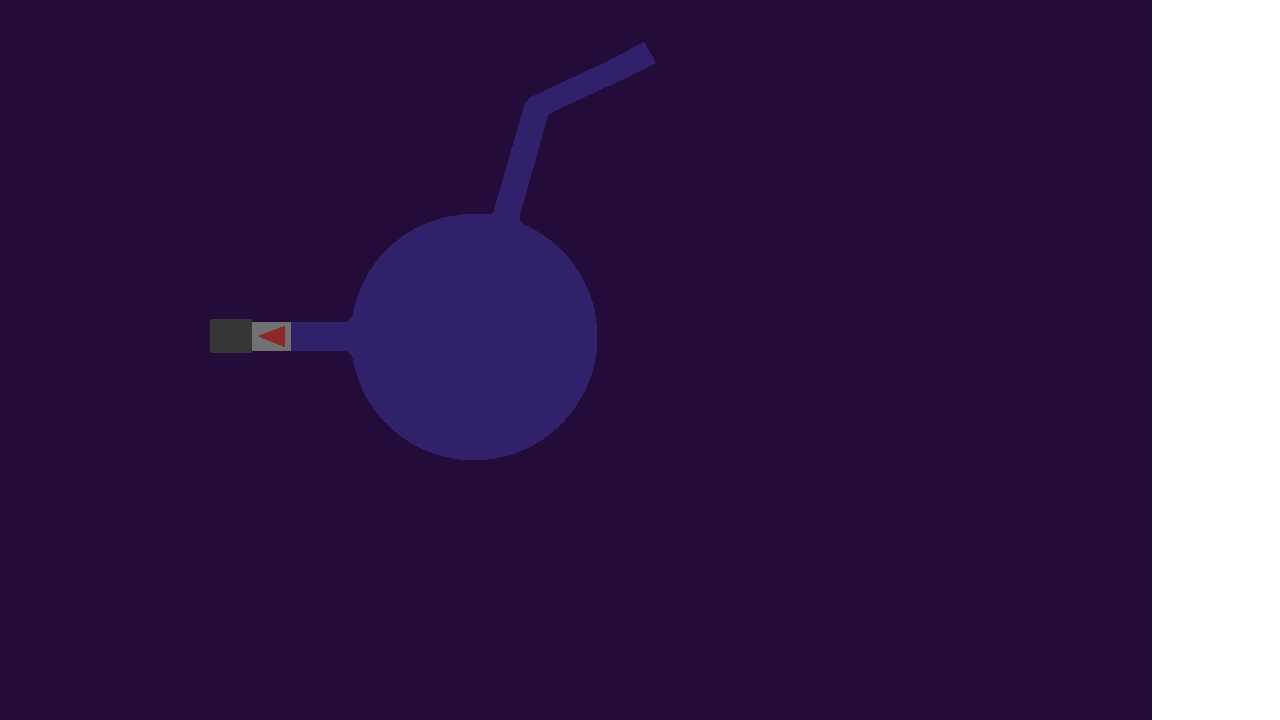
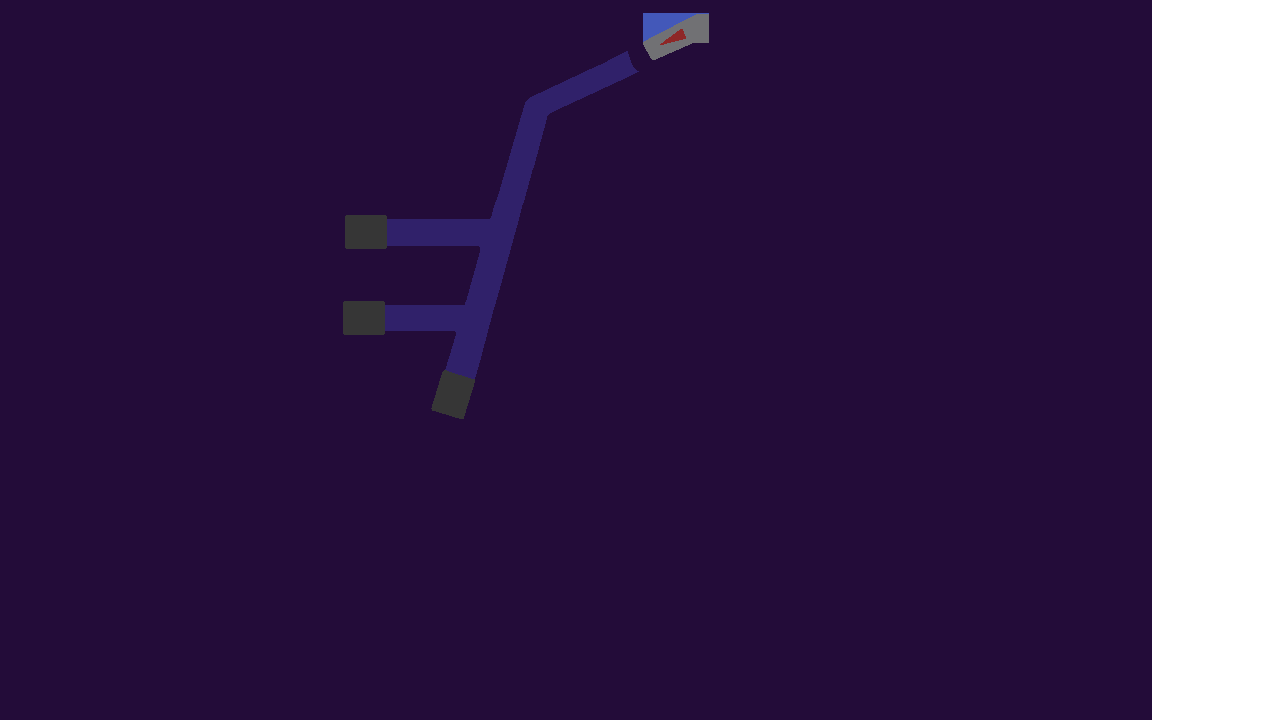
redo ball lock shapes and underlayer

Changed region(s): [[0.1562, 0.275, 0.4688, 0.6417], [0.4688, 0.0, 0.5625, 0.0917], [0.3438, 0.275, 0.375, 0.3056]]

diff --git a/games/pinball/source/layer.h b/games/pinball/source/layer.h
@@ -22,7 +22,7 @@ class Layer {
         int m_layerID;
 
         // Underlayer
-        vector<float> m_underOuter = {688.6, 12.6, 681.8, 16.1, 649.6, 32.9, 617.5, 49.7, 607.5, 54.8, 597.5, 59.8, 564.8, 73.8, 532.1, 87.9, 525.3, 91.4, 518.4, 94.8, 517.1, 96.3, 515.9, 97.8, 512.4, 109.1, 509.0, 120.3, 509.0, 121.9, 509.0, 123.6, 497.6, 165.3, 486.1, 207.0, 485.5, 208.0, 484.9, 209.0, 474.8, 209.0, 464.8, 209.0, 454.1, 210.6, 443.5, 212.1, 433.0, 215.6, 422.6, 219.1, 413.8, 223.7, 405.1, 228.3, 396.8, 234.5, 388.5, 240.8, 380.9, 248.7, 373.3, 256.7, 368.3, 264.1, 363.3, 271.5, 359.3, 279.5, 355.3, 287.5, 354.5, 290.0, 353.8, 292.5, 350.8, 298.5, 347.8, 304.5, 345.7, 306.9, 343.5, 309.2, 339.3, 312.1, 335.2, 315.0, 270.8, 315.2, 206.5, 315.5, 206.5, 336.5, 206.5, 357.5, 273.7, 358.0, 340.8, 358.5, 343.0, 361.3, 345.2, 364.0, 348.6, 370.7, 352.1, 377.4, 355.0, 384.9, 358.0, 392.5, 362.4, 400.2, 366.8, 408.0, 371.9, 414.8, 376.9, 421.7, 385.3, 429.7, 393.6, 437.7, 401.1, 442.7, 408.5, 447.7, 415.5, 451.2, 422.5, 454.8, 431.2, 457.8, 439.9, 460.9, 450.5, 463.0, 461.1, 465.0, 473.8, 465.0, 486.5, 465.0, 495.5, 463.4, 504.5, 461.9, 514.7, 458.5, 524.8, 455.1, 530.9, 452.0, 537.0, 449.0, 542.4, 445.5, 547.8, 442.1, 555.3, 436.0, 562.9, 430.0, 567.6, 424.7, 572.3, 419.5, 578.2, 411.6, 584.0, 403.6, 588.9, 393.6, 593.9, 383.5, 596.5, 375.5, 599.1, 367.6, 600.5, 359.2, 602.0, 350.7, 602.0, 336.9, 602.0, 323.1, 600.1, 313.3, 598.2, 303.5, 596.0, 297.0, 593.8, 290.5, 589.9, 282.1, 586.0, 273.7, 580.3, 265.1, 574.5, 256.5, 565.0, 246.9, 555.5, 237.3, 544.7, 230.3, 534.0, 223.2, 529.5, 221.3, 525.0, 219.5, 531.6, 194.4, 538.2, 170.5, 545.1, 145.6, 551.9, 120.6, 554.2, 118.3, 556.5, 116.1, 585.8, 102.5, 615.0, 89.0, 616.0, 89.0, 617.0, 89.0, 656.0, 69.5, 695.0, 50.0, 707.5, 50.0, 720.0, 50.0, 720.0, 47.5, 720.0, 45.0, 706.0, 45.0, 692.0, 45.0, 660.7, 60.6, 629.5, 76.3, 590.1, 94.6, 550.6, 113.0, 549.1, 114.5, 547.6, 116.0, 540.4, 142.2, 533.2, 168.5, 528.1, 186.5, 522.9, 204.5, 521.5, 209.5, 520.0, 214.5, 520.0, 217.6, 520.0, 220.7, 522.3, 222.7, 524.5, 224.7, 531.0, 228.0, 537.5, 231.3, 545.0, 236.4, 552.5, 241.5, 561.6, 250.5, 570.7, 259.6, 576.7, 268.8, 582.8, 278.1, 587.0, 287.5, 591.1, 297.0, 593.7, 306.8, 596.4, 316.5, 596.4, 337.0, 596.4, 357.5, 593.8, 367.3, 591.1, 377.1, 587.2, 385.9, 583.3, 394.7, 577.8, 403.1, 572.4, 411.5, 566.1, 418.8, 559.8, 426.0, 551.7, 432.5, 543.5, 439.1, 536.0, 443.5, 528.4, 447.9, 521.2, 450.9, 514.0, 453.9, 503.8, 456.5, 493.5, 459.2, 477.5, 459.7, 461.5, 460.2, 451.5, 458.1, 441.5, 456.1, 435.0, 453.9, 428.5, 451.8, 420.4, 448.1, 412.3, 444.3, 404.5, 439.0, 396.7, 433.7, 388.4, 425.7, 380.2, 417.8, 374.7, 410.1, 369.2, 402.5, 365.6, 395.9, 361.9, 389.2, 358.9, 380.9, 355.9, 372.6, 354.0, 364.6, 352.1, 356.7, 349.3, 353.8, 346.6, 351.0, 279.8, 351.0, 213.0, 351.0, 213.0, 336.5, 213.0, 322.0, 279.8, 322.0, 346.6, 322.0, 349.7, 318.7, 352.8, 315.5, 353.5, 311.0, 354.2, 306.5, 357.1, 297.8, 359.9, 289.2, 363.6, 281.8, 367.3, 274.5, 372.2, 267.2, 377.2, 259.8, 384.3, 252.3, 391.5, 244.8, 398.5, 239.4, 405.6, 234.0, 413.5, 229.6, 421.3, 225.1, 429.9, 221.9, 438.5, 218.8, 447.5, 216.8, 456.5, 214.8, 474.4, 214.2, 492.3, 213.5, 493.1, 212.0, 493.9, 210.5, 509.5, 156.5, 525.1, 102.5, 527.8, 99.8, 530.5, 97.1, 564.8, 81.1, 599.1, 65.0, 641.2, 43.4, 682.5, 21.7, 691.4, 17.4, 700.4, 13.0, 710.2, 13.0, 720.0, 13.0, 720.0, 11.0, 720.0, 9.0, 707.8, 9.0, 695.5, 9.1, 688.6, 12.6};
+        vector<float> m_underOuter = {688.6, 12.6, 681.8, 16.1, 649.6, 32.9, 617.5, 49.7, 607.5, 54.8, 597.5, 59.8, 564.8, 73.8, 532.1, 87.9, 525.3, 91.4, 518.4, 94.8, 517.1, 96.3, 515.9, 97.8, 512.4, 109.1, 509.0, 120.3, 509.0, 121.9, 509.0, 123.6, 499.7, 157.6, 490.3, 191.5, 486.7, 199.3, 483.0, 207.0, 481.2, 210.3, 479.4, 212.0, 408.9, 212.2, 338.5, 212.5, 338.5, 232.5, 338.5, 252.5, 404.8, 252.8, 471.0, 253.0, 464.8, 276.7, 458.6, 299.0, 398.1, 299.2, 337.5, 299.5, 337.2, 316.9, 337.0, 334.2, 338.1, 335.6, 339.2, 337.0, 393.1, 337.0, 447.0, 337.0, 447.0, 338.2, 447.0, 339.5, 440.6, 360.0, 434.1, 380.5, 428.0, 397.0, 421.9, 413.5, 422.6, 416.3, 423.2, 419.1, 425.3, 420.4, 427.5, 421.7, 446.3, 426.5, 465.1, 431.3, 466.5, 429.9, 468.0, 428.5, 473.5, 409.6, 478.9, 390.8, 480.0, 389.5, 481.0, 388.2, 485.4, 371.9, 489.8, 355.5, 496.4, 332.5, 503.0, 309.5, 503.0, 308.0, 503.0, 306.5, 515.0, 263.0, 526.9, 219.5, 527.9, 211.5, 528.9, 203.5, 533.6, 187.0, 538.2, 170.5, 545.1, 145.6, 551.9, 120.6, 554.2, 118.3, 556.5, 116.1, 585.8, 102.5, 615.0, 89.0, 616.0, 89.0, 617.0, 89.0, 656.0, 69.5, 695.0, 50.0, 707.5, 50.0, 720.0, 50.0, 720.0, 47.5, 720.0, 45.0, 706.0, 45.0, 692.0, 45.0, 660.7, 60.6, 629.5, 76.3, 590.1, 94.6, 550.6, 113.0, 549.1, 114.5, 547.6, 116.0, 540.4, 142.2, 533.2, 168.5, 528.1, 186.5, 522.9, 204.5, 519.6, 217.0, 516.2, 229.5, 508.0, 259.0, 499.9, 288.5, 496.5, 300.0, 493.2, 311.5, 485.6, 340.0, 478.1, 368.5, 472.1, 388.5, 466.2, 408.5, 464.0, 415.7, 461.9, 423.0, 446.6, 419.0, 431.8, 415.1, 436.1, 399.0, 441.0, 383.5, 448.6, 358.7, 456.2, 333.9, 455.6, 332.4, 455.1, 331.0, 399.5, 331.0, 344.0, 331.0, 344.0, 318.0, 344.0, 305.0, 404.4, 305.0, 464.7, 305.0, 466.8, 298.2, 468.9, 291.5, 474.5, 271.2, 480.1, 251.0, 479.8, 248.7, 479.5, 246.5, 412.3, 246.2, 345.0, 246.0, 345.0, 232.5, 345.0, 219.0, 417.5, 219.0, 490.0, 219.0, 490.9, 216.7, 491.8, 214.5, 495.8, 202.0, 499.9, 189.5, 512.5, 146.0, 525.1, 102.5, 527.8, 99.8, 530.5, 97.1, 564.8, 81.1, 599.1, 65.0, 641.2, 43.4, 682.5, 21.7, 691.4, 17.4, 700.4, 13.0, 710.2, 13.0, 720.0, 13.0, 720.0, 11.0, 720.0, 9.0, 707.8, 9.0, 695.5, 9.1, 688.6, 12.6};
         /*
         vector<float> m_under1 = {531.4, 274.8, 526.3, 281.6, 527.7, 283.6, 529.2, 285.5, 532.5, 292.5, 535.8, 299.5, 537.4, 307.2, 539.0, 314.9, 539.0, 320.5, 539.0, 326.1, 537.4, 333.8, 535.8, 341.5, 532.5, 348.5, 529.2, 355.5, 527.7, 357.4, 526.3, 359.4, 531.4, 366.2, 536.4, 373.0, 538.1, 373.0, 539.7, 373.0, 542.2, 369.2, 544.8, 365.4, 547.4, 360.2, 550.0, 355.1, 552.4, 347.6, 554.9, 340.1, 556.0, 330.2, 557.2, 320.3, 556.0, 310.5, 554.8, 300.8, 552.4, 293.3, 550.0, 285.9, 547.4, 280.8, 544.8, 275.6, 542.2, 271.8, 539.7, 268.0, 538.1, 268.0, 536.4, 268.0, 531.4, 274.8};
         vector<float> m_under2 = {460.0, 234.1, 453.5, 234.9, 447.5, 236.6, 441.5, 238.2, 434.2, 241.6, 426.8, 245.0, 420.7, 249.4, 414.5, 253.8, 408.4, 260.2, 402.2, 266.6, 398.2, 272.8, 394.2, 279.1, 391.2, 286.3, 388.3, 293.5, 387.6, 296.2, 387.0, 299.0, 396.8, 299.0, 406.6, 299.0, 409.3, 292.7, 412.0, 286.5, 417.0, 279.8, 421.9, 273.1, 427.7, 268.5, 433.5, 263.9, 441.5, 260.0, 449.5, 256.1, 457.2, 254.6, 464.9, 253.0, 470.7, 253.0, 476.5, 253.0, 483.0, 254.5, 489.5, 255.9, 491.8, 253.0, 494.1, 250.2, 497.5, 244.6, 500.8, 239.0, 500.2, 238.6, 499.5, 238.2, 494.0, 236.7, 488.5, 235.1, 480.0, 234.1, 471.6, 233.0, 469.0, 233.1, 466.5, 233.3, 460.0, 234.1};

diff --git a/games/pinball/source/balllock.h b/games/pinball/source/balllock.h
@@ -10,11 +10,18 @@ using namespace std;
 
 class BallLock {
     public:
-        BallLock(C2DRenderer* renderer, b2World& world, int layerID);
+        BallLock(C2DRenderer* renderer, b2World& world, int layerID, int shapeID);
         b2Fixture* getFixture();
     private:
         int m_layerID;
         b2Fixture* m_fixture;
+        vector<float> m_upperLock = {843.5, 532.5, 835.8, 540.9, 834.4, 543.6, 833.0, 546.2, 833.0, 548.1, 833.0, 549.9, 850.2, 564.0, 867.4, 578.0, 869.5, 578.0, 871.5, 578.0, 881.8, 567.7, 892.0, 557.5, 892.0, 555.2, 892.0, 553.0, 873.8, 538.5, 855.5, 524.0, 853.3, 524.0, 851.2, 524.0, 843.5, 532.5};
+        vector<float> m_lowerLock1 = {344.0, 232.0, 344.0, 251.0, 355.5, 251.0, 367.0, 251.0, 367.0, 232.0, 367.0, 213.0, 355.5, 213.0, 344.0, 213.0, 344.0, 232.0};
+        vector<float> m_lowerLock2 = {344.0, 317.0, 344.0, 336.0, 355.5, 336.0, 367.0, 336.0, 367.0, 317.0, 367.0, 298.0, 355.5, 298.0, 344.0, 298.0, 344.0, 317.0};
+        vector<float> m_lowerLock3 = {440.6, 371.2, 439.2, 373.5, 433.5, 391.3, 427.9, 409.2, 428.2, 412.3, 428.5, 415.3, 431.5, 417.0, 434.5, 418.7, 446.5, 423.3, 458.6, 428.0, 461.7, 428.0, 464.8, 428.0, 466.0, 426.6, 467.2, 425.1, 471.1, 409.8, 475.1, 394.5, 476.2, 388.2, 477.4, 381.9, 476.4, 380.2, 475.3, 378.5, 462.4, 373.8, 449.5, 369.2, 445.8, 369.1, 442.0, 369.0, 440.6, 371.2};
+        vector<vector<float>> m_points = {
+            m_upperLock, m_lowerLock1, m_lowerLock2, m_lowerLock3
+        };
 };
 
 #endif

diff --git a/games/pinball/source/balllock.cpp b/games/pinball/source/balllock.cpp
@@ -1,14 +1,9 @@
 #include "balllock.h"
 
-BallLock::BallLock(C2DRenderer* renderer, b2World& world, int layerID) {
+BallLock::BallLock(C2DRenderer* renderer, b2World& world, int layerID, int shapeID) {
     m_layerID = layerID;
 
-    vector<float> points;
-    if (layerID == 2)
-        points = {843.5, 532.5, 835.8, 540.9, 834.4, 543.6, 833.0, 546.2, 833.0, 548.1, 833.0, 549.9, 850.2, 564.0, 867.4, 578.0, 869.5, 578.0, 871.5, 578.0, 881.8, 567.7, 892.0, 557.5, 892.0, 555.2, 892.0, 553.0, 873.8, 538.5, 855.5, 524.0, 853.3, 524.0, 851.2, 524.0, 843.5, 532.5};
-    else if (layerID == 0)
-        points = {214.0, 336.0, 214.0, 355.0, 225.5, 355.0, 237.0, 355.0, 237.0, 336.0, 237.0, 317.0, 225.5, 317.0, 214.0, 317.0, 214.0, 336.0};
-
+    vector<float> points = m_points.at(shapeID);
     b2Vec2* vs = getVertexArray(points);
     b2ChainShape chain;
     chain.CreateChain(vs, points.size() / 2);

diff --git a/games/pinball/source/table.cpp b/games/pinball/source/table.cpp
@@ -73,11 +73,17 @@ Table::Table(C2DRenderer* renderer, b2World& world) :
     Ramp tunnelDown(renderer, world, 13, 0);
     m_ramps.push_back(tunnelDown);
 
-    BallLock* ballLock = new BallLock(renderer, world, 2);
+    BallLock* ballLock = new BallLock(renderer, world, 2, 0);
     m_ballLocks.push_back(ballLock);
 
-    BallLock* underBallLock = new BallLock(renderer, world, 0);
-    m_ballLocks.push_back(underBallLock);
+    BallLock* underBallLock1 = new BallLock(renderer, world, 0, 1);
+    m_ballLocks.push_back(underBallLock1);
+
+    BallLock* underBallLock2 = new BallLock(renderer, world, 0, 2);
+    m_ballLocks.push_back(underBallLock2);
+
+    BallLock* underBallLock3 = new BallLock(renderer, world, 0, 3);
+    m_ballLocks.push_back(underBallLock3);
 
     OptWall* leftRailWall = new OptWall(renderer, world, 0, 3);
     m_optWalls.push_back(leftRailWall);
